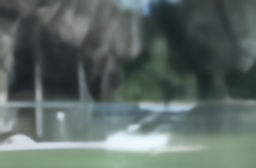
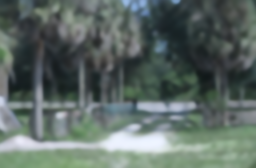
results

diff --git a/main_test_dpsr.py b/main_test_dpsr.py
@@ -59,7 +59,7 @@ def main():
     # Preparation
     # ----------------------------------------
 
-    noise_level_img = 32                 # default: 0, noise level for LR image
+    noise_level_img = 1                 # default: 0, noise level for LR image
     noise_level_model = noise_level_img  # noise level for model    
     model_name = 'dpsr_x4'           # 'dpsr_x2' | 'dpsr_x3' | 'dpsr_x4' | 'dpsr_x4_gan'
     testset_name = 'test'                # test set,  'set5' | 'srbsd68'
